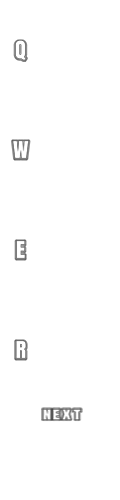
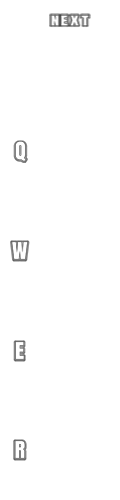
2dgame

diff --git a/Human vs Orc/main_state.py b/Human vs Orc/main_state.py
@@ -6,10 +6,7 @@ import game_framework
 import title_state
 import pause_state
 
-
 name = "MainState"
-
-
 
 mx = 0
 my = 0
@@ -72,9 +69,9 @@ def draw_cards():
     global cardList
     #current
     for i in range(4):
-        cardList[i].image.clip_draw(cardList[i].type * 60, 0, 60,80,70,450 - cardList[i].no*100)
+        cardList[i].image.clip_draw(cardList[i].type * 60, 0, 60,80,70,350 - cardList[i].no*100)
     #next
-    cardList[4].image.clip_draw(cardList[4].type*60,0,60,80,60,40, 40,60)
+    cardList[4].image.clip_draw(cardList[4].type*60,0,60,80,70,440,40,60)
 
 # 카드 초기 설정
 def init_cards():
@@ -341,24 +338,6 @@ def update(frame_time):
    for unit in unitList:
        unit.update(frame_time)
 
-   for unit in unitList:
-       for enemy in enemyList:
-            if collide(enemy, unit):
-                unit.motion = 4
-                enemy.motion = 4
-                if unit.frame == 4:
-                    enemy.hp -= unit.atk
-                    if enemy.hp < 0:
-                        enemyList.remove(enemy)
-                        unit.motion = 0
-                        new = Grunt()
-                        enemyList.append(new)
-
-                if enemy.frame == 4:
-                    unit.hp -= enemy.atk
-                    if unit.hp < 0:
-                        unitList.remove(unit)
-                        enemy.motion = 0
 
 
 
@@ -378,7 +357,7 @@ def draw_scene():
     #commandbar.draw(600,60 , 400, 150)
 
     if selection > -1:
-        sqwer.clip_draw(0, 300 - 100*selection , 120, 100, 60, 450 - 100*selection)
+        sqwer.clip_draw(0, 300 - 100*selection , 120, 100, 60, 350 - 100*selection)
 
     for enemy in enemyList:
         enemy.draw()

diff --git a/Human vs Orc/Unit_Class.py b/Human vs Orc/Unit_Class.py
@@ -96,6 +96,9 @@ class Footman:
 
 
     def update(self,frame_time):
+        if self.hp < 0 :
+            main_state.unitList.remove(self)
+
         if self.vector == (0,1):
             self.state = 0
         elif self.vector == (1,1):
@@ -112,6 +115,15 @@ class Footman:
             self.state = 6
         elif self.vector == (-1,1):
             self.state = 7
+
+        for enemy in main_state.enemyList:
+            if main_state.collide(enemy, self):
+                self.motion = 4
+                if self.frame == 4:
+                    enemy.hp -= self.atk
+            else:
+                self.motion = 0
+
 
         self.life_time += frame_time
         distance = Footman.RUN_SPEED_PPS * frame_time
@@ -430,6 +442,9 @@ class Grunt:
             Grunt.life_box = load_image('Images\\life.png')
 
     def update(self, frame_time):
+        if self.hp < 0 :
+            main_state.enemyList.remove(self)
+
         if self.vector == (0, 1):
             self.state = 0
         elif self.vector == (1, 1):
@@ -446,6 +461,14 @@ class Grunt:
             self.state = 6
         elif self.vector == (-1, 1):
             self.state = 7
+
+        for unit in main_state.unitList:
+            if main_state.collide(unit, self):
+                self.motion = 4
+                if self.frame == 4:
+                    unit.hp -= self.atk
+            else:
+                self.motion = 0
 
         self.life_time += frame_time
         distance = Grunt.RUN_SPEED_PPS * frame_time
